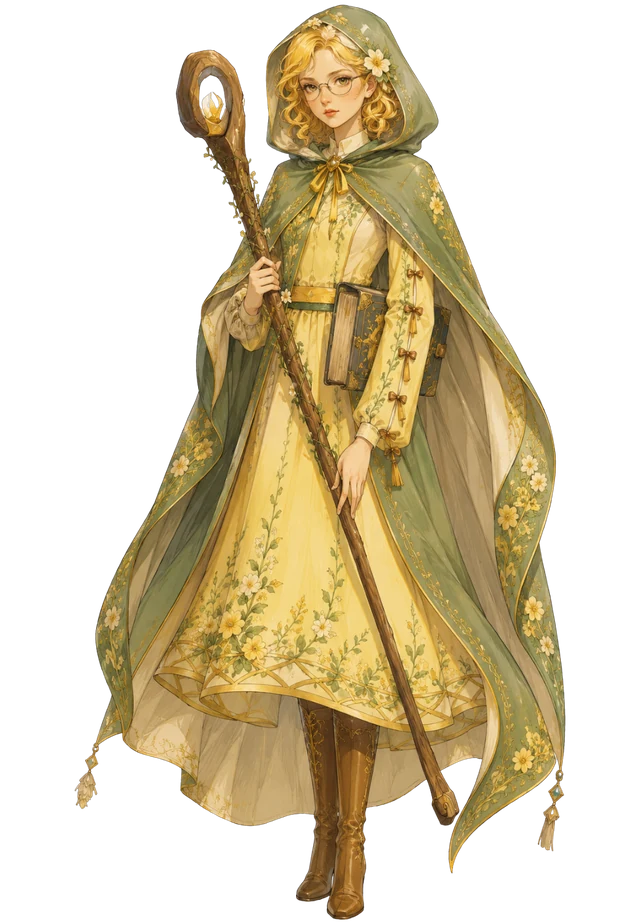
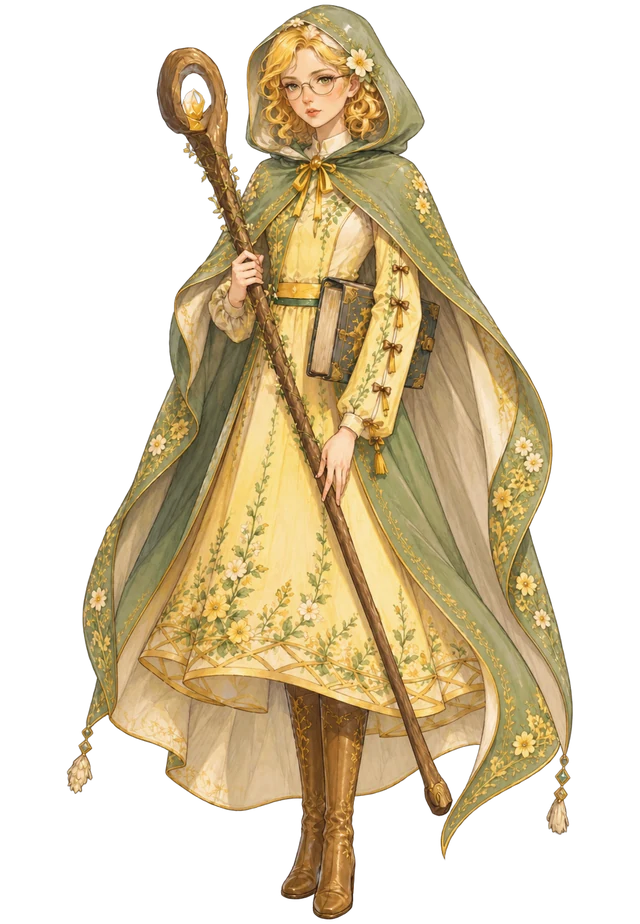
黄色い種・赤い月(女性)を描き直した全身像に差し替え、全身像と胸像を作り直す (#211)
胸から上が細く、アーキタイプ一覧の胸像が拡大されて他より大きく見えていた。
上半身を横に広げた絵に描き直してもらい、この2人の4ファイルだけを作り直した
(目標の縦横比は既存の出力に合わせ、他の38枚は変えていない)。

diff --git a/scripts/generateSealCutouts.py b/scripts/generateSealCutouts.py
@@ -107,6 +107,10 @@ def limit_width(im: Image.Image, max_w: int) -> Image.Image:
 # 縦横比を揃える(下を削らない)。そのぶん画面上では人物が少し小さく、体まで見えるようになる。
 # キーは (sealIndex, suffix)。'' が女性、'-male' が男性。
 # 2026-11-22: 男性の赤い空歩く人・青い猿・青い鷲・黄色い星・黄色い人は全身像を描き直してもらったので、ここから外した。
+# 2026-11-22: 女性の黄色い種・赤い月は胸から上が細く、胸像が拡大されて大きく見えたので、上半身を横に広げた
+#   全身像に描き直してもらった(上42%の横幅/全身の高さ: 黄色い種 0.39→0.42、赤い月 0.42→0.47)。
+#   差し替えたのはこの2人の全身像・胸像の4ファイルだけ。目標の縦横比は既存の出力(胸像 1.3153・全身 0.6926)に
+#   合わせた — main() で全体を作り直すと、目標値が変わって他の38枚の大きさも少しずつ変わるため。
 BUST_KEEP_MIN: dict[tuple[int, str], float] = {
     (9, ''): 0.34,        # 白い犬(女性)
     (9, '-male'): 0.34,   # 白い犬(男性)
